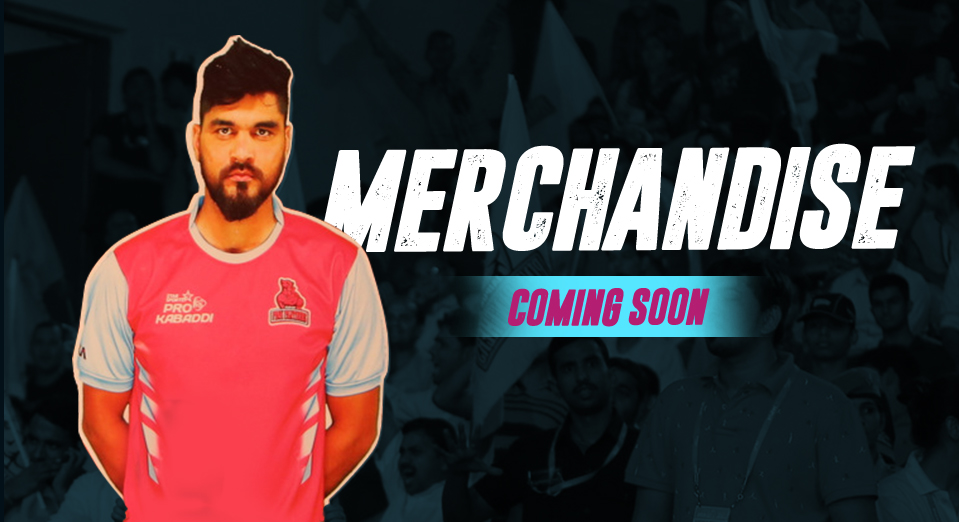
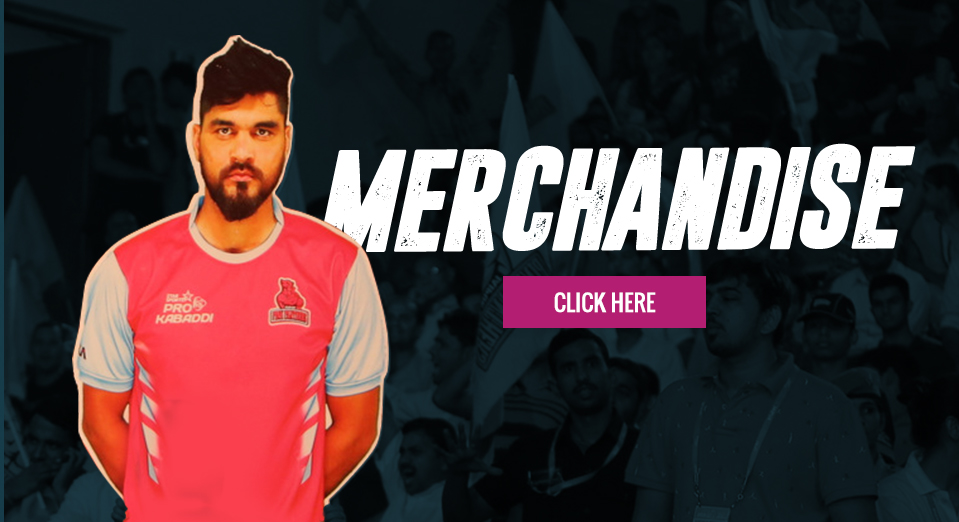
comingsoon

Changed region(s): [[0.4838, 0.5211, 0.7862, 0.6437], [0.0, 0.0, 0.0302, 1.0]]

diff --git a/views/content/home1.html b/views/content/home1.html
@@ -18,18 +18,19 @@
       <p>Be a part of the official Panther community and enjoy the privileges of getting up close and personal with our players,
         <br>access to exclusive content &amp; exciting activities! </p>
       <div class="social-icons gradient-bar2">
-        <span class="head" ng-click="facebookLogin()">Sign Up with </span>
-        <!-- <span><a ui-sref="home1"><i class="fa fa-facebook fa-2x" aria-hidden="true"></i></a></span>
-        <span><a ui-sref="home1"><i class="fa fa-twitter fa-2x" aria-hidden="true"></i></a></span> -->
-        <span class="social-login"><i ng-click="facebookLogin()" class="fa fa-facebook fa-2x" aria-hidden="true"></i></span>
-        <!-- <span ng-click="twitterLogin()"><i class="fa fa-twitter fa-2x" aria-hidden="true"></i></span> -->
+        <a ui-sref="panthers-den"> <span class="head">Sign Up with </span>
+          <span class="social-login"><i class="fa fa-facebook fa-2x" aria-hidden="true"></i></span>
+        </a>
+        <!-- <span class="head" ng-click="facebookLogin()">Sign Up with </span> -->
+        <!-- <span><a ui-sref="home1"><i class="fa fa-facebook fa-2x" aria-hidden="true"></i></a></span> -->
+        <!-- <span class="social-login"><i ng-click="facebookLogin()" class="fa fa-facebook fa-2x" aria-hidden="true"></i></span> -->
       </div>
     </div>
   </div>
 </section>
 <section>
   <div class="banner-title1">
-    <a href=""><img src="img/home/Home-page.jpg" class="img-responsive" title="PANTHER DEN" alt="Jaipur Pink Panthers"></a>
+    <a ui-sref="panthers-den"><img src="img/home/Home-page.jpg" class="img-responsive" title="PANTHER DEN" alt="Jaipur Pink Panthers"></a>
     <section>
       <div class="page-title text-center">
         <div class="border-blue"></div>
@@ -41,80 +42,80 @@
   <div class="section4">
     <div class="box-home">
       <div class="row margin0">
-        <div class="col-sm-6 padding0">
+        <div class="col-sm-6 padding0 col-xs-12">
           <a>
             <div class="cont-box mr2 mb2">
               <div class="img-holder">
-                <img ng-src="img/home/JPP-TV.jpg" alt="Jaipur Pink Panthers" title="JPPTV" class="img-responsive">
+                <a href="http://jaipurpinkpanthers.com/jpp-tv"><img ng-src="img/home/JPP-TV.jpg" alt="Jaipur Pink Panthers" title="JPPTV" class="img-responsive"></a>
               </div>
             </div>
           </a>
         </div>
-        <div class="col-sm-6 padding0">
+        <div class="col-sm-6 padding0 col-xs-12">
           <a ui-sref="gallery">
             <div class="cont-box ml2 mb2">
               <div class="img-holder">
-                <img ng-src="img/home/GALLERY.jpg" alt="Jaipur Pink Panthers" title="GALLERY" class="img-responsive">
+                <a href="http://jaipurpinkpanthers.com/gallery"><img ng-src="img/home/GALLERY.jpg" title="GALLERY" alt="Jaipur Pink Panthers" class="img-responsive"></a>
               </div>
             </div>
           </a>
         </div>
       </div>
       <div class="row margin0">
-        <div class="col-sm-6 padding0">
+        <div class="col-sm-6 padding0 col-xs-12">
           <a>
             <div class="cont-box mr2 mb2">
               <div class="img-holder">
-                <img ng-src="img/home/GAMES-PANTHERS-PLAY.jpg" title="GAMES" alt="Jaipur Pink Panthers" class="img-responsive">
+                <a href=""><img ng-src="img/home/GAMES-PANTHERS-PLAY.jpg" alt="Jaipur Pink Panthers" class="img-responsive" title="GAMES"></a>
               </div>
             </div>
           </a>
         </div>
-        <div class="col-sm-6 padding0">
+        <div class="col-sm-6 padding0 col-xs-12">
           <a ui-sref="gallery">
             <div class="cont-box ml2 mb2">
               <div class="img-holder">
-                <img ng-src="img/home/NEWS-AND-UPDATES.jpg" title="NEWS AND UPDATES" alt="Jaipur Pink Panthers" class="img-responsive">
+                <a href="http://jaipurpinkpanthers.com/news-media"><img ng-src="img/home/NEWS-AND-UPDATES.jpg" alt="Jaipur Pink Panthers" class="img-responsive" title="NEWS AND UPDATES"></a>
               </div>
             </div>
           </a>
         </div>
       </div>
       <div class="row margin0">
-        <div class="col-sm-6 padding0">
-          <a >
+        <div class="col-sm-6 padding0 col-xs-12">
+          <a>
             <div class="cont-box mr2 mb2">
               <div class="img-holder">
-                <img ng-src="img/home/PANTHER-ROOM.jpg" title="PANTHER ROOM" alt="Jaipur Pink Panthers" class="img-responsive">
+                <a href=""><img ng-src="img/home/PANTHER-ROOM.jpg" title="PANTHER ROOM" alt="Jaipur Pink Panthers" class="img-responsive"></a>
               </div>
             </div>
           </a>
         </div>
-        <div class="col-sm-6 padding0">
+        <div class="col-sm-6 padding0 col-xs-12">
           <a ui-sref="gallery">
             <div class="cont-box ml2 mb2">
               <div class="img-holder">
-                <img ng-src="img/home/PANTHER-ROOM-copy.jpg" title="WALLPAPERS" alt="Jaipur Pink Panthers" class="img-responsive">
+                <a href="http://jaipurpinkpanthers.com/wallpaper"><img ng-src="img/home/PANTHER-ROOM-copy.jpg" title="WALLPAPERS" alt="Jaipur Pink Panthers" class="img-responsive"></a>
               </div>
             </div>
           </a>
         </div>
       </div>
       <div class="row margin0">
-        <div class="col-sm-6 padding0">
+        <div class="col-sm-6 padding0 col-xs-12">
           <a ui-sref="news-media">
             <div class="cont-box mr2 mt2">
               <div class="img-holder">
-                <img ng-src="img/home/MERCHANDISE.jpg" title="MERCHANDISE" alt="Jaipur Pink Panthers" class="img-responsive">
+                <a href="http://jaipurpinkpanthers.com/ticket-merchandise"><img ng-src="img/home/Merchandise.jpg" alt="Jaipur Pink Panthers" title="MERCHANDISE" class="img-responsive"></a>
               </div>
             </div>
           </a>
         </div>
-        <div class="col-sm-6 padding0">
+        <div class="col-sm-6 padding0 col-xs-12">
           <a ui-sref="wallpaper">
             <div class="cont-box ml2 mt2">
               <div class="img-holder">
-                <img ng-src="img/home/BUY-TICKETS.jpg" title="BUY TICKETS" alt="Jaipur Pink Panthers" class="img-responsive">
+                <a href="http://jaipurpinkpanthers.com/ticket-merchandise"><img ng-src="img/home/BUY-TICKETS.jpg" title="BUY TICKETS" alt="Jaipur Pink Panthers" class="img-responsive"></a>
               </div>
             </div>
           </a>

diff --git a/js/navigation.js b/js/navigation.js
@@ -23,46 +23,44 @@ var navigationservice = angular.module('navigationservice', [])
 
         {
             name: "JPP 'TV'",
-            anchor: "jpp-tv",
+            link: "http://jaipurpinkpanthers.com/jpp-tv",
             classis: "active",
-            subnav: []
-        }, {
+            // subnav: []
+        },
+        {
             name: "THE PANTHER DEN",
             anchor: "panthers-den",
             classis: "active",
-            subnav: [{
-                    name: "Panther Army",
-                    classis: "active",
-                    link: "panther-army",
-                }, {
-                    name: "Ultimate Panther",
-                    classis: "active",
-                    link: "#/ultimate-panther"
-                },
-                // {
-                //     name: "#AuctionWithAbhishek",
-                //     classis: "active",
-                //     link: "#/auction"
-                // },
-                {
-                    name: "#JPP Survey",
-                    classis: "active",
-                    link: "#/jpp-survey"
-                },
-            ]
-        }, {
+            // subnav: [{
+            //         name: "Panther Army",
+            //         classis: "active",
+            //         link: "panther-army",
+            //     }, {
+            //         name: "Ultimate Panther",
+            //         classis: "active",
+            //         link: "#/ultimate-panther"
+            //     },
+            //     {
+            //         name: "#JPP Survey",
+            //         classis: "active",
+            //         link: "#/jpp-survey"
+            //     },
+            // ]
+        }
+        , {
             name: "GAMES",
             anchor: "games",
             classis: "active",
             subnav: []
-        }, {
+        }
+        , {
             name: "NEWS & UPDATES",
-            anchor: "news-updates",
+            link: "http://jaipurpinkpanthers.com/news-media",
             classis: "active",
             subnav: []
         }, {
             name: "GALLERY",
-            anchor: "gallery",
+            link: "http://jaipurpinkpanthers.com/wallpaper",
             classis: "active",
             subnav: []
         }, {

diff --git a/views/menu.html b/views/menu.html
@@ -1,15 +1,15 @@
 <ul class="nav navbar-nav head-menu">
-  <li ng-repeat="menu in navigation" class="menu-custom-li">
-    <a ui-sref="{{menu.anchor}}" class="menu-custom" ng-if="menu.anchor">{{menu.name}}</a>
-    <a href="{{menu.link}}" ng-if="menu.link">{{menu.name}}</a>
+  <li ng-repeat="menu in navigation" class="menu-custom-li {{menu.classis}}">
+    <a ui-sref="{{menu.anchor}}" ng-if="menu.anchor" class=" menu-custom">{{menu.name}}</a>
+    <a href="{{menu.link}}"class="menu-custom"  ng-if="menu.link">{{menu.name}}</a>
     <ul class="dropdown-menu" ng-if="menu.subnav!='';">
       <li ng-repeat="submenu in menu.subnav">
         <a class="subnav" ui-sref="{{submenu.link}}">{{submenu.name}}</a>
       </li>
     </ul>
   </li>
-  <li class="visible-xs regis">  
-    <div class="dropdown reg">
+  <li class="visible-xs regis">
+    <!-- <div class="dropdown reg">
       <button class="btn btn-primary dropdown-toggle " type="button" data-toggle="dropdown">Abhishek<img src="img/Abhi.png" class="img-responsive display-inline photo" alt="">
         <span class="arrow-down"><i class="fa fa-angle-down" aria-hidden="true"></i></span></button>
         <ul class="drops dropdown-menu">
@@ -17,7 +17,7 @@
           <li><a href="#">Suggest a friend</a></li>
           <li><a href="#">Log Out</a></li>
         </ul>
-      </div>
+      </div> -->
       <!-- <select name="registering" id="register">
       <option value="log in">log in</option>
       <option value="know more">know more</option>

diff --git a/js/controllers.js b/js/controllers.js
@@ -33,14 +33,10 @@ angular.module('phonecatControllers', ['templateservicemod', 'navigationservice'
 
 .controller('ComingSoonCtrl', function($scope, TemplateService, NavigationService, $timeout) {
     //Used to name the .html file
-
-    console.log("Testing Consoles");
-
     $scope.template = TemplateService.changecontent("comingsoon");
     $scope.menutitle = NavigationService.makeactive("Coming Soon");
     TemplateService.title = $scope.menutitle;
     $scope.navigation = NavigationService.getnav();
-
 })
 
 .controller('JPPTVCtrl', function($scope, TemplateService, NavigationService, $timeout) {
@@ -660,6 +656,7 @@ angular.module('phonecatControllers', ['templateservicemod', 'navigationservice'
     $scope.$on('$stateChangeSuccess', function(event, toState, toParams, fromState, fromParams) {
         $(window).scrollTop(0);
     });
+    console.log($state.current.name);
     NavigationService.callProfile(function(data) {
         console.log(data);
         if (data.value === true) {
@@ -668,7 +665,10 @@ angular.module('phonecatControllers', ['templateservicemod', 'navigationservice'
             $scope.profileimage = data.data.profilePic;
             $scope.accesstoken = data.data.K120K200;
         } else {
-            $state.go('home');
+          if ($state.current.name=="panther-army") {
+            // $state.go('home');
+
+          }
         }
 
     });

diff --git a/views/content/home.html b/views/content/home.html
@@ -9,7 +9,7 @@
 <section>
     <div class="border-blue"></div>
   <div class="banner-title">
-    <a href=""><img src="img/home/Home-page.jpg" class="img-responsive" title="PANTHER DEN" alt="Jaipur Pink Panthers"></a>
+    <a ui-sref="panthers-den"><img src="img/home/Home-page.jpg" class="img-responsive" title="PANTHER DEN" alt="Jaipur Pink Panthers"></a>
     <section>
       <div class="page-title text-center">
         <!-- <div class="border-blue"></div> -->
@@ -85,7 +85,7 @@
           <a ui-sref="news-media">
             <div class="cont-box mr2 mt2">
               <div class="img-holder">
-                <a href="http://jaipurpinkpanthers.com/ticket-merchandise"><img ng-src="img/home/Merchandises.jpg" alt="Jaipur Pink Panthers" title="MERCHANDISE" class="img-responsive"></a>
+                <a href="http://jaipurpinkpanthers.com/ticket-merchandise"><img ng-src="img/home/Merchandise.jpg" alt="Jaipur Pink Panthers" title="MERCHANDISE" class="img-responsive"></a>
               </div>
             </div>
           </a>

diff --git a/views/header.html b/views/header.html
@@ -20,15 +20,14 @@
             </div>
           </div>
           <div class="col-md-2 col-sm-2 registration hidden-xs">
-            <div class="dropdown reg">
+            <!-- <div class="dropdown reg">
               <button class="btn btn-primary dropdown-toggle " type="button" data-toggle="dropdown">{{name}}<img ng-src="{{profileimage}}" class="img-responsive display-inline photo" alt="">
                 <span class="arrow-down"><i class="fa fa-angle-down" aria-hidden="true"></i></span></button>
                 <ul class="drops dropdown-menu">
                   <li><a href="#">Details</a></li>
-                  <!-- <li><a href="#">Suggest a friend</a></li> -->
                   <li><a ng-click="logout()">Log Out</a></li>
                 </ul>
-              </div>
+              </div> -->
               <!-- <select name="registering" id="register">
               <option value="log in">log in</option>
               <option value="know more">know more</option>

diff --git a/sass/main.scss b/sass/main.scss
@@ -523,6 +523,7 @@ nav {
     font-size: 20px;
     font-weight: $font-light;
     padding-right: 15px;
+    margin-right: 9px;
     &:hover {
       .dropdown-menu {
         display: block;
@@ -726,8 +727,8 @@ nav {
       width: 60px;
       line-height: 60px;
       text-align: center;
-      border-radius: 100%;
-      border: 1px solid #fff;
+      // border-radius: 100%;
+      // border: 1px solid #fff;
     }
     &:hover {
       color: $brand-success;
@@ -2864,7 +2865,7 @@ a {
 }
 .log-coming {
   padding-top: 100px;
-  height: 100vh;
+  height: 660px;
   img {
     width: 300px;
   }

diff --git a/js/app.js b/js/app.js
@@ -23,12 +23,6 @@ firstapp.config(function($stateProvider, $urlRouterProvider, $httpProvider, $loc
               templateUrl: "views/template.html",
               controller: 'HomeCtrl'
           })
-
-          .state('jpp-tv', {
-              url: "/jpp-tv",
-              templateUrl: "views/template.html",
-              controller: 'JPPTVCtrl'
-          })
           .state('comingsoon', {
               url: "/comingsoon",
               templateUrl: "views/template.html",
